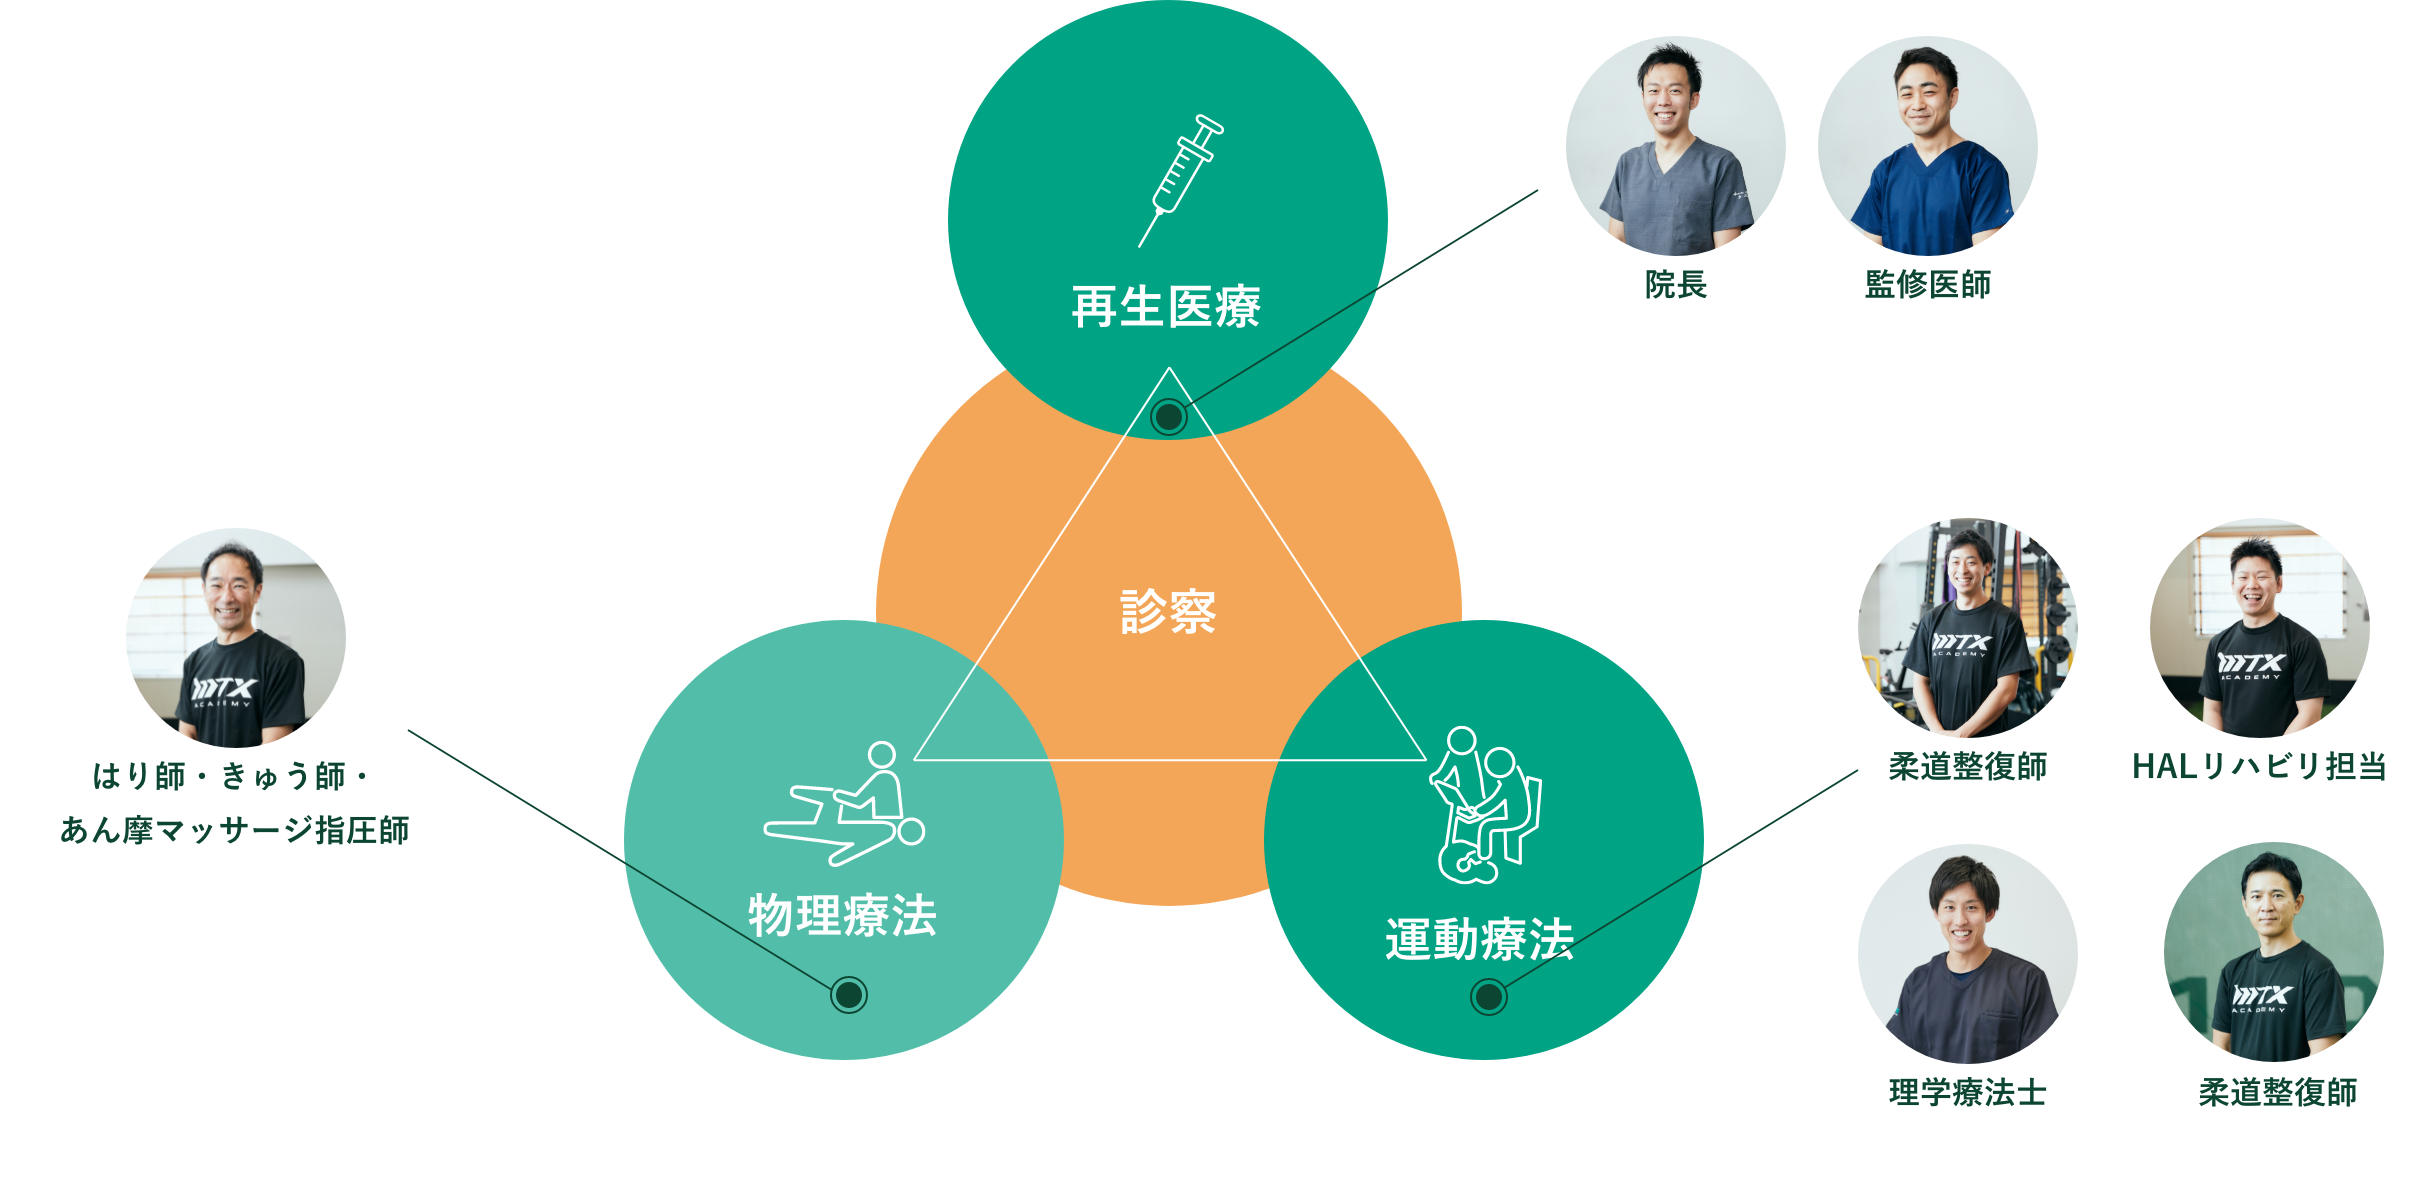
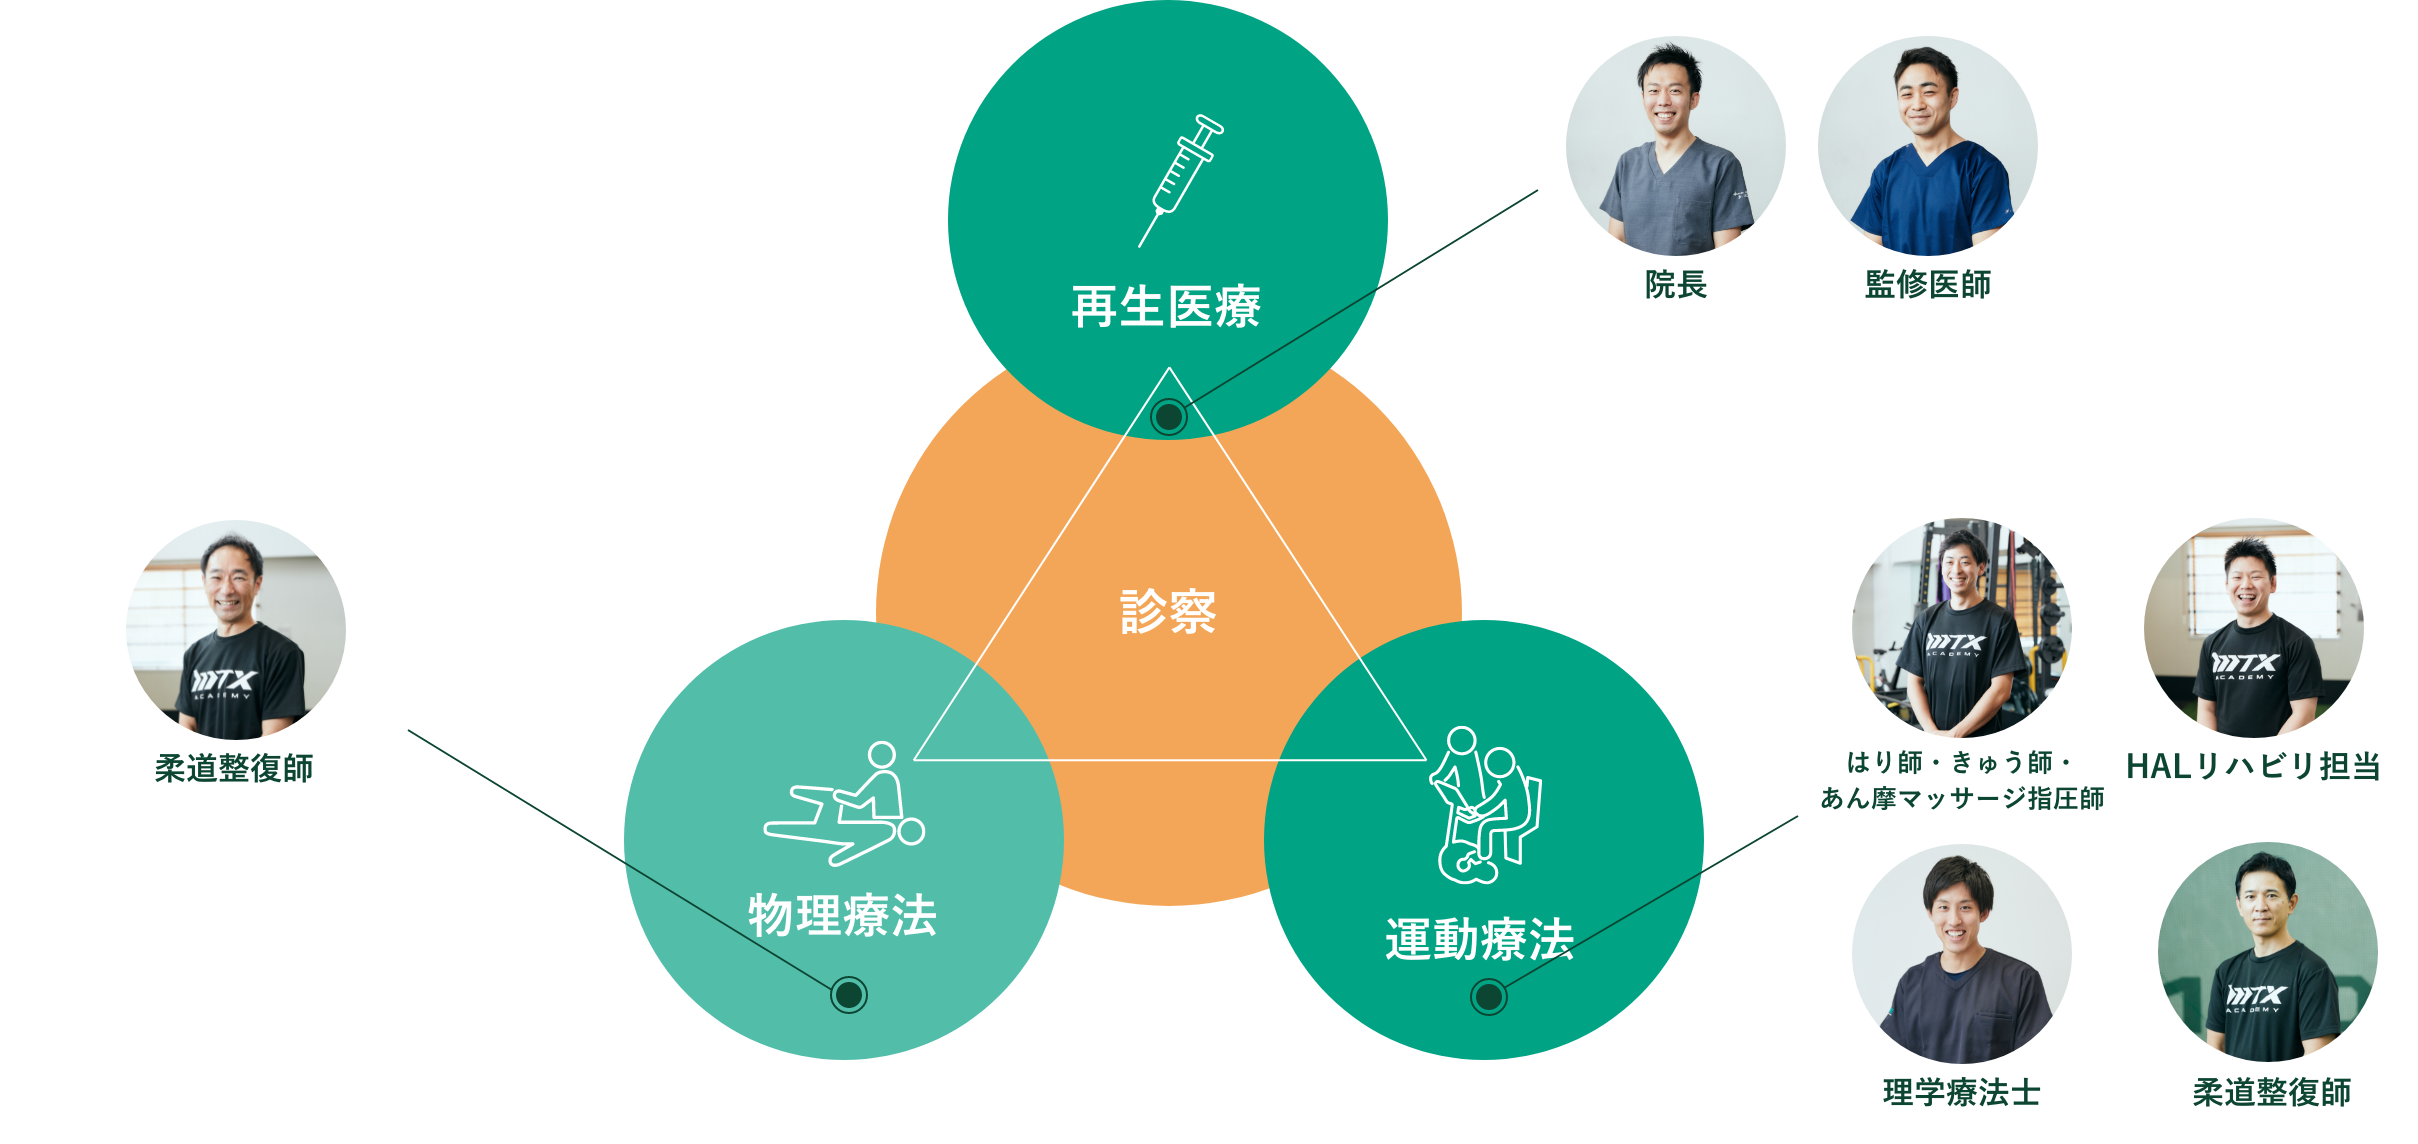
staffページ：画像、文言修正

diff --git a/page-staff.php b/page-staff.php
@@ -270,7 +270,7 @@ $rootDir = get_template_directory_uri();
                   <p class="en white">TANABE</p>
                   <p class="black">田邊 大吾</p>
                   <p class="small black">たなべ だいご</p>
-                  <p class="degree more">はり師<br class="pc"><span>/</span>きゅう師<br class="pc"><span>/</span>あん摩マッサージ指圧師</p>
+                  <p class="degree more">鍼灸師<br class="pc"><span>/</span>あん摩マッサージ指圧師</p>
                 </div>
                 <div class="introduce-contents__inner_box_right_name_top_right">
                   <img src="<?php echo $rootDir ?>/images/introduce/method_02_white.png" alt="">
@@ -305,7 +305,7 @@ $rootDir = get_template_directory_uri();
                   <p class="en other">WATANABE</p>
                   <p>渡邊　健二</p>
                   <p class="small">わたなべ　けんじ</p>
-                  <p class="degree more white">柔道整復師<br class="pc"><span>/</span>あん摩マッサージ指圧師</p>
+                  <p class="degree less white">柔道整復師</p>
                 </div>
                 <div class="introduce-contents__inner_box_right_name_top_right">
                   <img src="<?php echo $rootDir ?>/images/introduce/method_03.png" alt="">
